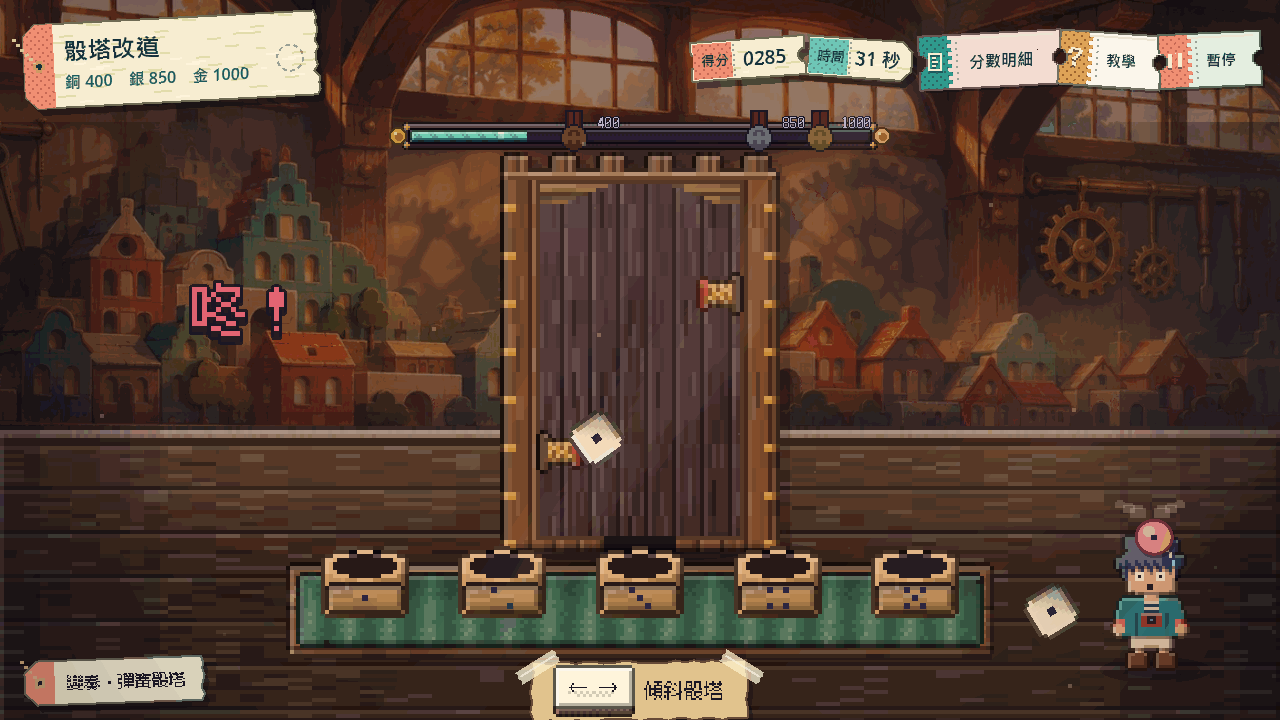
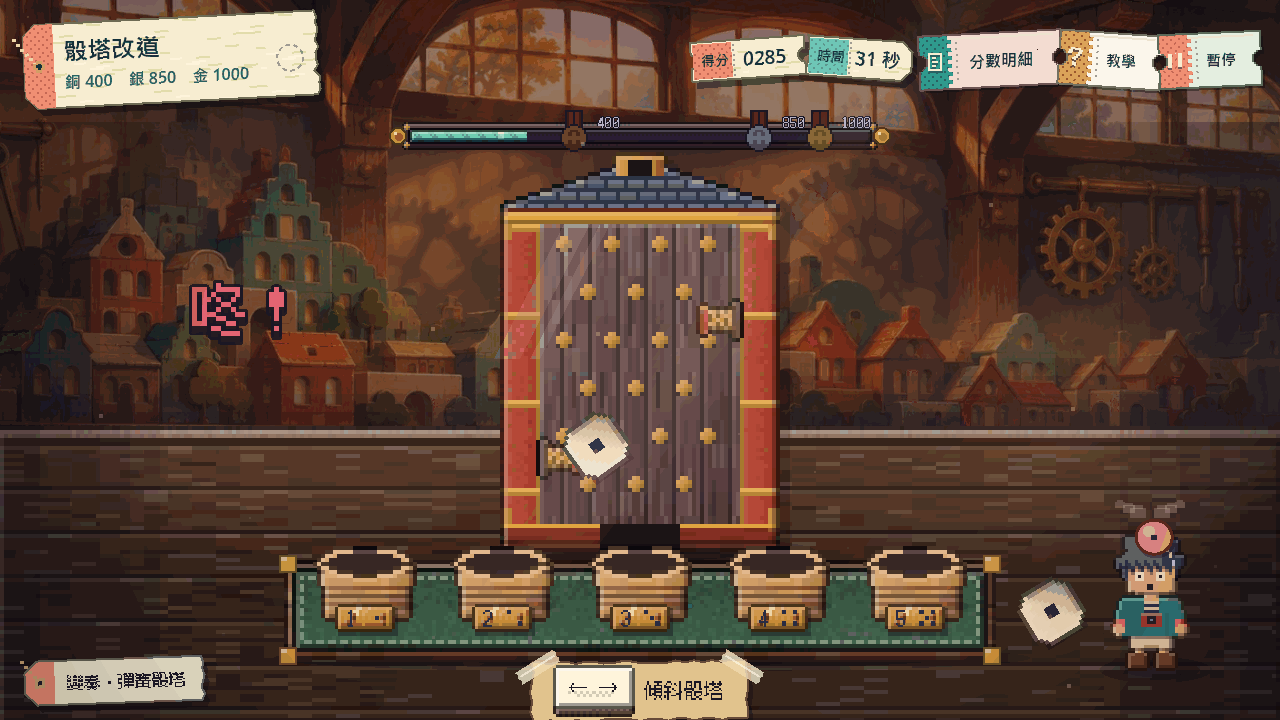
fix: repaint the dice tower as a lacquered toy with a glass front, chunky dice, plaqued cups and a stitched felt tray (SG-91)

diff --git a/pm/Snapland-small-game/[SG-91]實作骰塔改道.md b/pm/Snapland-small-game/[SG-91]實作骰塔改道.md
@@ -60,3 +60,18 @@
 ### 截圖
 
 ![沒進杯的骰子敲在主角頭上，頭上腫起一個印著點數的包](images/SG-91-dice-bump.png)
+
+---
+
+# Commit-2
+
+## 內文
+
+骰塔看起來像一大塊暗色長方形加直條紋，骰子是小小一顆模糊的方塊，杯子是平平的盒子擺在一條純綠色的長條上，離其他街機小遊戲的完成度有一段距離。
+現在骰塔是一座上了漆的玩具塔：紅色漆面的塔身有黃色飾條和黃銅包角，上面蓋著藍色瓦片屋頂、屋頂中間有讓骰子掉進去的黃銅漏斗，底下是有拱門出口的台座；正面是一片玻璃，看得見塔裡釘滿黃銅釘的木板背牆、牆上的彈簧和旋轉擋片，玻璃上有斜斜的反光。骰子變大、點點更粗，有圓角與左上的柔光，掉落時會翻滾。杯盤換成有縫線邊與絨毛紋路的綠色毛氈，四角有黃銅包角，五個車旋木杯各有一塊黃銅號碼牌，寫著號碼和點數。
+以原生畫面重新擷取傾斜中與被敲出包的畫面逐張看過；規則測試、街機共用檢查與教學圖片檢查重新跑過。
+
+### 截圖
+
+![上漆的玩具骰塔、玻璃後的黃銅釘與彈簧，骰子沒進杯敲在主角頭上](images/SG-91-dice-bump.png)
+
